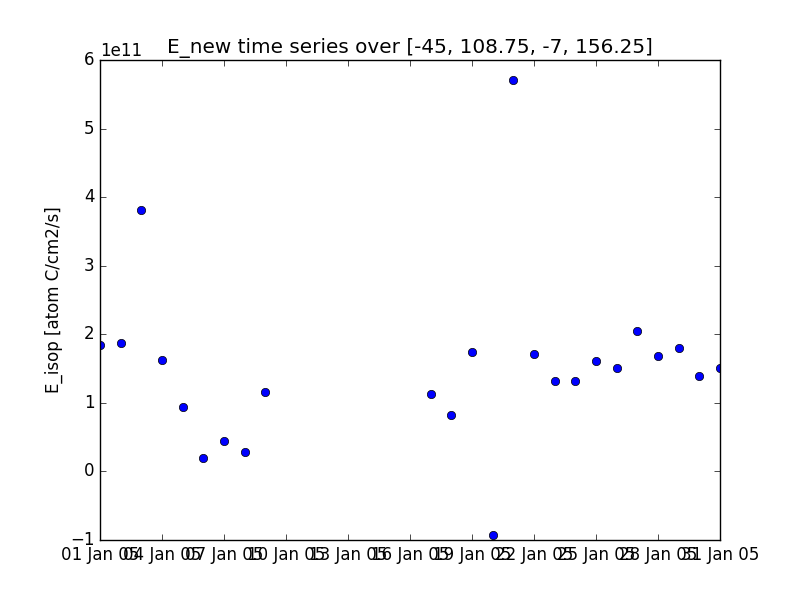
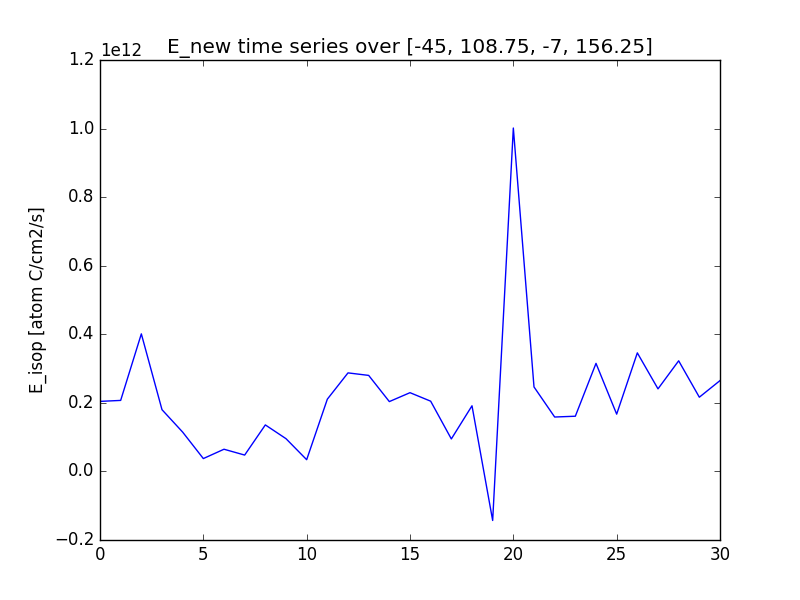
Added reading and plots for E_new

diff --git a/Analyse_E_isop.py b/Analyse_E_isop.py
@@ -36,17 +36,18 @@ __VERBOSE__=True
 ### Methods ###
 ###############
 
-def E_new_time_series(region=pp.__AUSREGION__):
+def E_new_time_series(date=datetime(2005,2,1), region=pp.__AUSREGION__):
     '''
         Plot the time series of E_new, eventually compare against MEGAN, etc..
     '''
 
     # Read data, attributes
-    #date=datetime(2005,1,1)
-    E,Ea=fio.read_E_new()
+
+    dstr=date.strftime("%Y%m")
+    E,Ea=fio.read_E_new(month=date)
     lats=E['lats']; lons=E['lons']
     dates=E['dates']
-    dnums = matplotlib.dates.date2num(dates)
+    #dnums = matplotlib.dates.date2num(dates)
     E_new=E['E_isop']
     units=Ea['E_isop']['units']
 
@@ -59,17 +60,18 @@ def E_new_time_series(region=pp.__AUSREGION__):
     E_new=np.nanmean(E_new,axis=(1,2)) # mean over lat/lon
 
     # Plot time series
-    print(dnums)
-    print(E_new)
-    plt.plot_date(dnums,E_new)
+    #print(dnums)
+    #print(E_new)
+    #plt.plot_date(dnums,E_new)
+    plt.plot(E_new)
     plt.title('E_new time series over %s'%str(region))
     # set up better labels
     plt.ylabel("E_isop [%s]"%units)
-    plt.gca().xaxis.set_major_formatter(matplotlib.dates.DateFormatter('%d %b %y'))
+    #plt.gca().xaxis.set_major_formatter(matplotlib.dates.DateFormatter('%d %b %y'))
 
 
     # save figure
-    pname='Figs/E_new_series.png'
+    pname='Figs/E_new_series_%s.png'%dstr
     plt.savefig(pname)
     print("Saved %s"%pname)
 
@@ -366,7 +368,7 @@ if __name__=='__main__':
     SEAus=[-41,138.75,-25,156.25]
     regions=pp.__AUSREGION__, SEAus, JennySEA_fixed
 
-    E_new_time_series(region=pp.__AUSREGION__)
+    E_new_time_series(date=datetime(2005,3,1),region=pp.__AUSREGION__)
 
 #    for region in regions:
 #        print("REGION = %s"%str(region))

diff --git a/utilities/fio.py b/utilities/fio.py
@@ -126,7 +126,7 @@ def save_to_hdf5(outfilename, arraydict, fillvalue=np.NaN,
         if verbose:
             print("Inside fio.save_to_hdf5()")
             print(arraydict.keys())
-        
+
         # attribute creation
         # give the HDF5 root some more attributes
         f.attrs['Filename']        = outfilename.split('/')[-1]
@@ -271,7 +271,7 @@ def read_8dayfire_interpolated(date,latres,lonres):
     interp = griddata( (mlats.ravel(), mlons.ravel()), fires.ravel(), (mnewlats, mnewlons), method='nearest')
     return interp, newlats, newlons
 
-def read_E_new(oneday=None, filename=None):
+def read_E_new(month=datetime(2005,1,1), oneday=None, filename=None):
     '''
     Function to read the recalculated Emissions output
     Inputs:
@@ -282,8 +282,8 @@ def read_E_new(oneday=None, filename=None):
     '''
 
     # First get filename:
-    ddir='Data/Isop/E_new/'
-    fpath=glob(ddir+'emissions_20050101-*.h5')[-1]
+    dstr=month.strftime(format='%Y%m')
+    fpath='Data/Isop/E_new/emissions_%s.h5'%dstr
 
     if filename is not None:
         fpath=filename
